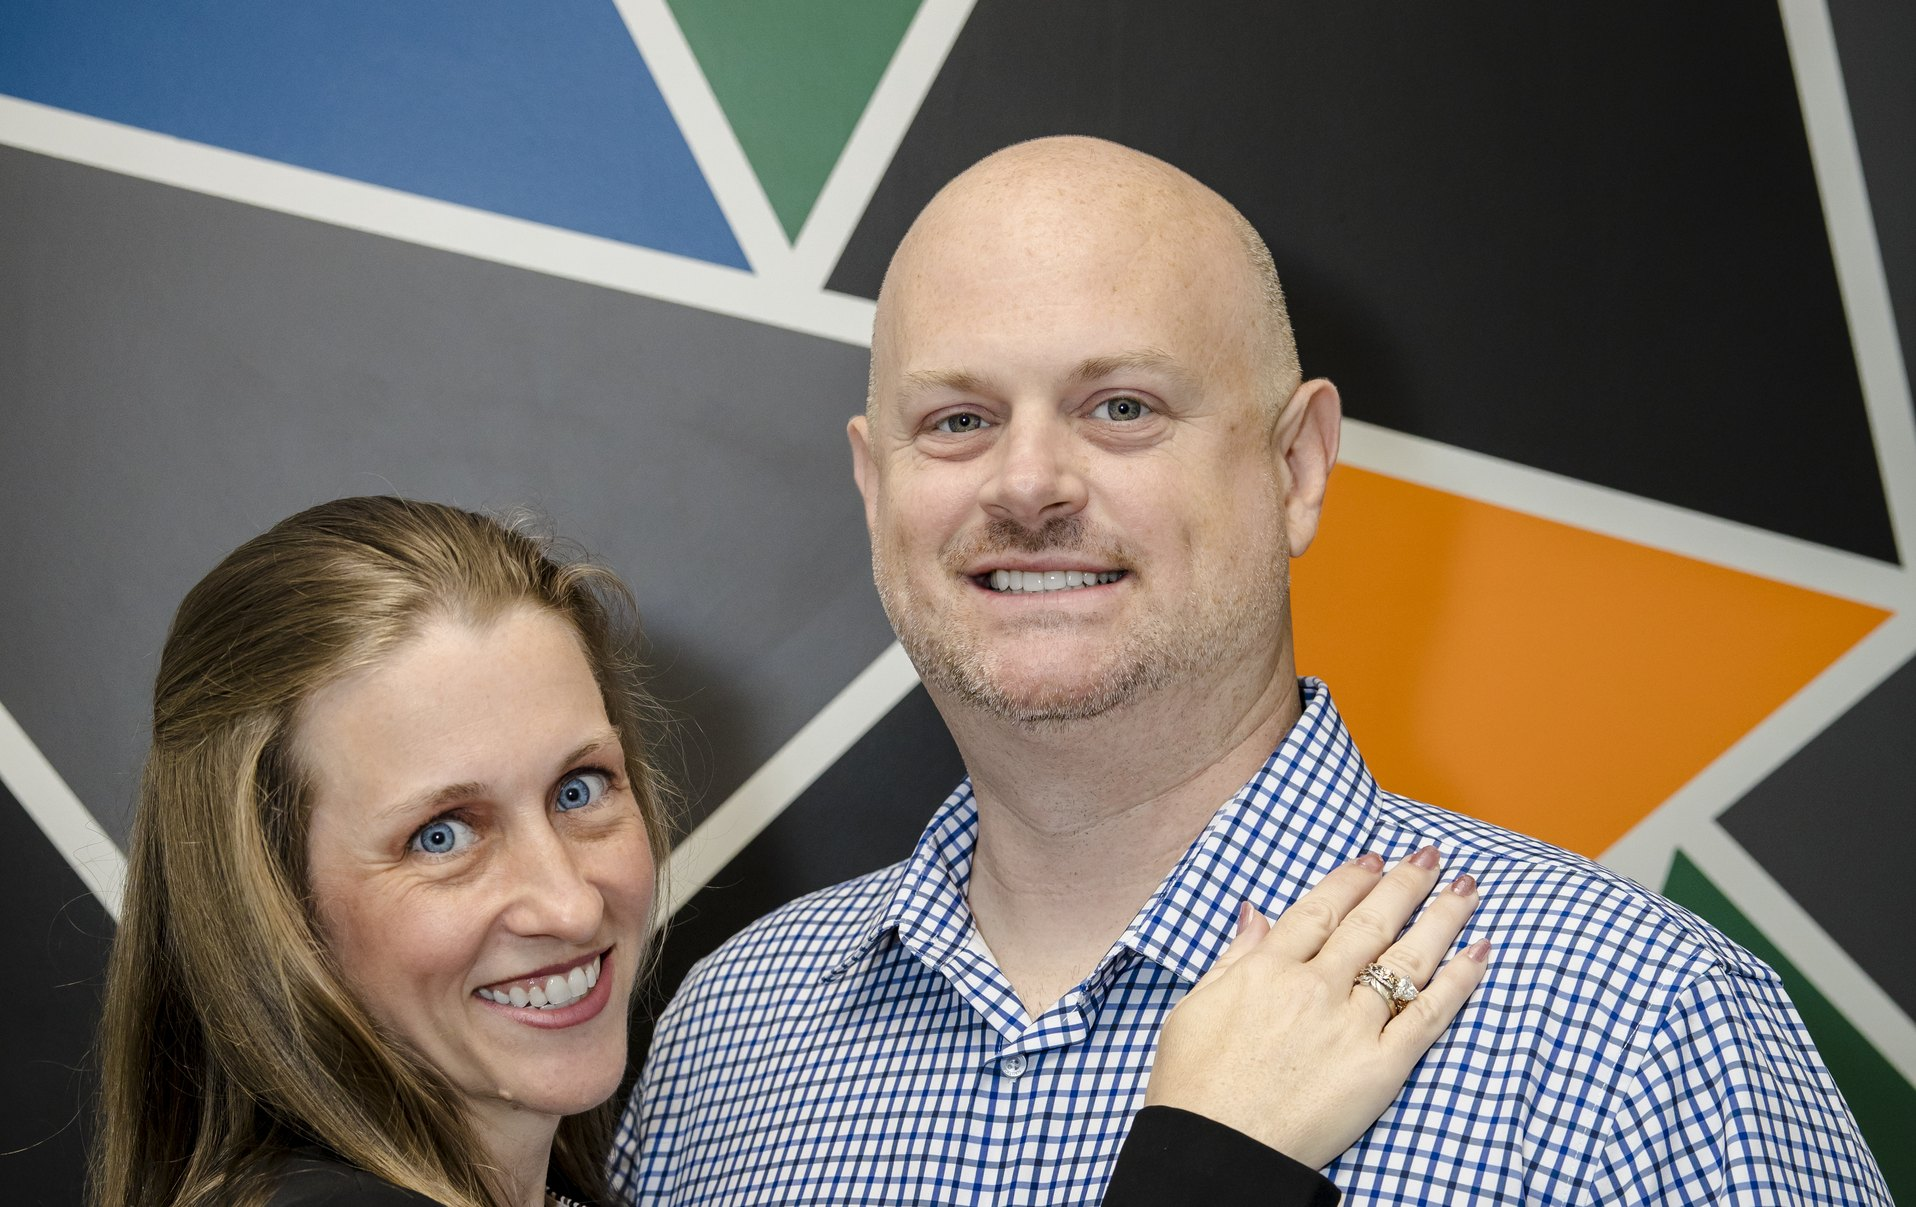
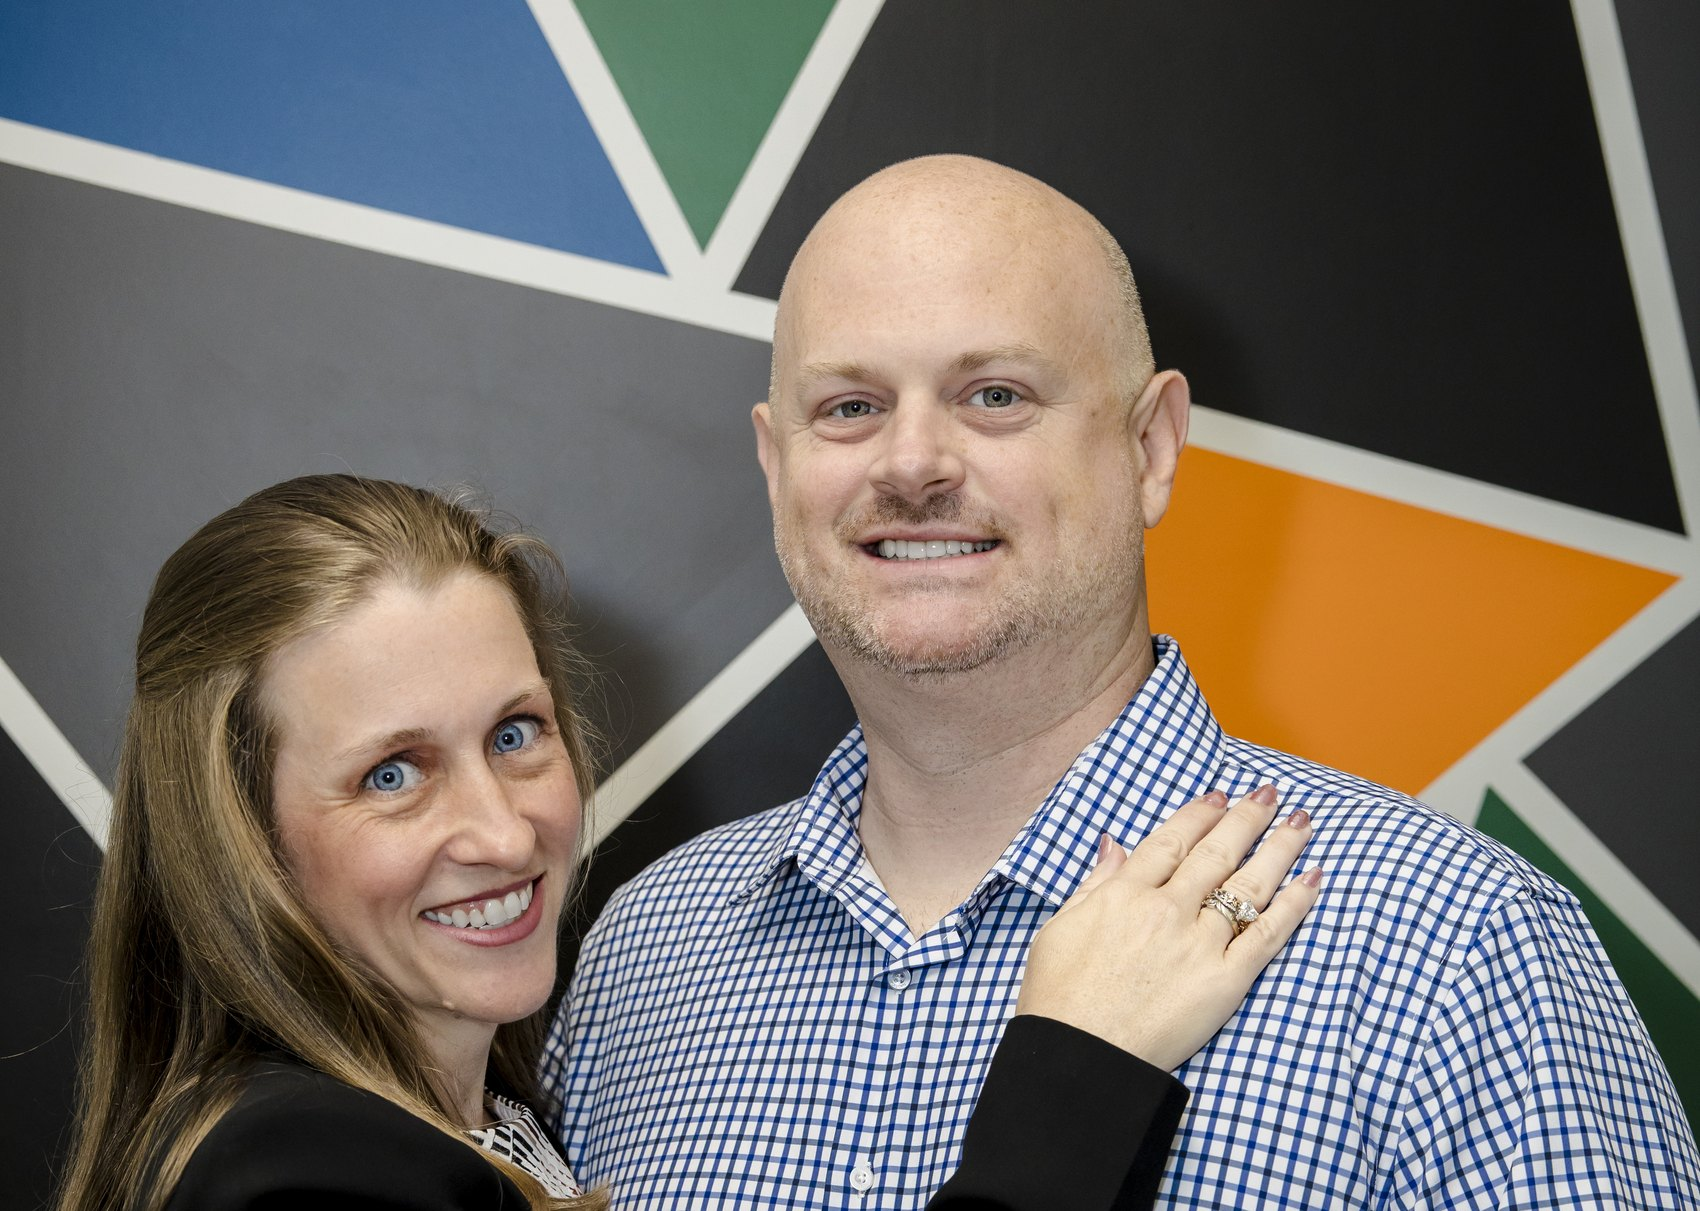
Story band: zoom out to torso framing, fix ghost button on dark background

diff --git a/assets/css/styles.css b/assets/css/styles.css
@@ -92,11 +92,13 @@ body.has-hero-overlay .site-header:not(.is-scrolled) .nav-cta:hover{background:r
 body.has-hero-overlay .site-header .site-logo{transition:filter .3s ease}
 body.has-hero-overlay .site-header:not(.is-scrolled) .site-logo{filter:brightness(0) invert(1)}
 /* === Overlay band (photo left, text overlaid right) === */
-.overlay-band{position:relative;background:#232528;color:#fff;overflow:hidden;display:flex;flex-direction:column;justify-content:center;min-height:clamp(540px,44vw,720px)}
-.overlay-band-img{position:absolute;top:0;left:0;height:100%;width:58%;object-fit:cover;object-position:42% center;display:block}
+.overlay-band{position:relative;background:#232528;color:#fff;overflow:hidden;display:flex;flex-direction:column;justify-content:center;min-height:clamp(600px,50vw,840px)}
+.overlay-band-img{position:absolute;top:0;left:0;height:100%;width:58%;object-fit:cover;object-position:40% center;display:block}
 .overlay-band-fade{position:absolute;inset:0;background:linear-gradient(to right,rgba(35,37,40,0) 28%,rgba(35,37,40,.72) 45%,#232528 56%);pointer-events:none}
 .overlay-band-content{position:relative;margin-left:55%;max-width:620px;padding:clamp(2.75rem,6vw,5rem) clamp(1.5rem,4vw,3rem) clamp(2.75rem,6vw,5rem) 0}
 .overlay-band-content .eyebrow{color:var(--pink)}
 .overlay-band-content h2{color:#fff;font-size:clamp(1.7rem,3vw,2.5rem);line-height:1.15;margin:.85rem 0 1rem}
 .overlay-band-content p,.overlay-band-content .cred-list li{color:#fff;font-size:1.02rem;line-height:1.65}
-@media (max-width:820px){.overlay-band{min-height:0}.overlay-band-img{position:static;width:100%;height:auto;aspect-ratio:8/5}.overlay-band-fade{background:linear-gradient(to bottom,rgba(35,37,40,0) 55%,#232528 92%)}.overlay-band-content{margin:0;max-width:none;padding:1.5rem 1.25rem 2.25rem}}
+@media (max-width:820px){.overlay-band{min-height:0}.overlay-band-img{position:static;width:100%;height:auto;aspect-ratio:7/5}.overlay-band-fade{background:linear-gradient(to bottom,rgba(35,37,40,0) 55%,#232528 92%)}.overlay-band-content{margin:0;max-width:none;padding:1.5rem 1.25rem 2.25rem}}
+.overlay-band .btn-ghost{background:transparent;color:#fff;border-color:rgba(255,255,255,.65)}
+.overlay-band .btn-ghost:hover{background:rgba(255,255,255,.12);border-color:#fff;color:#fff}